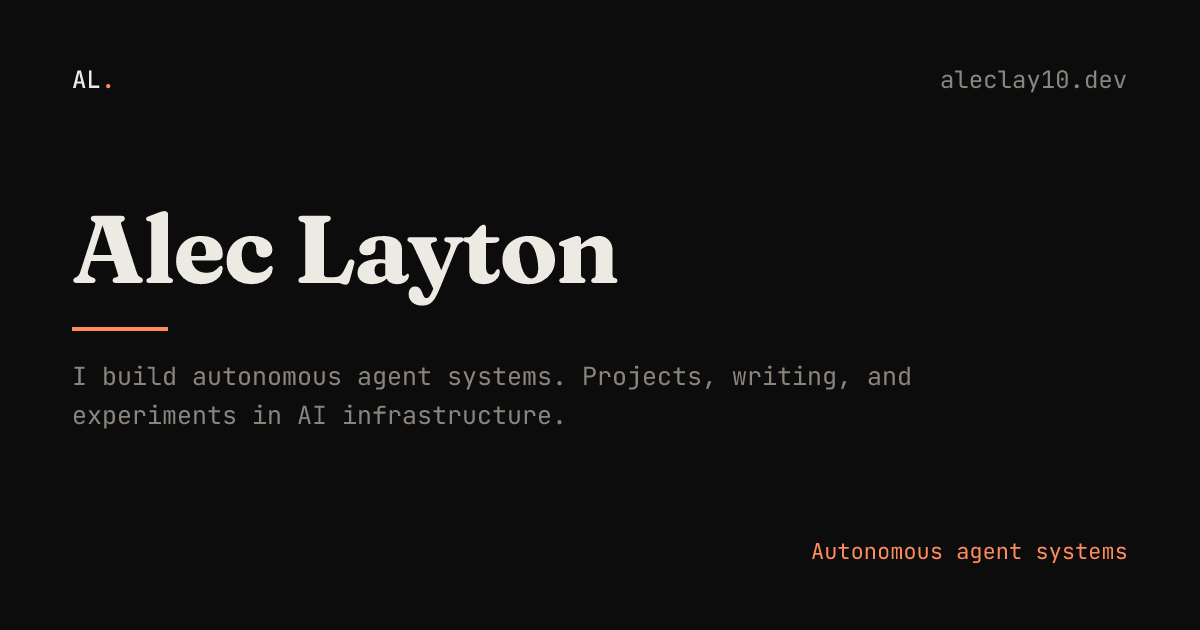
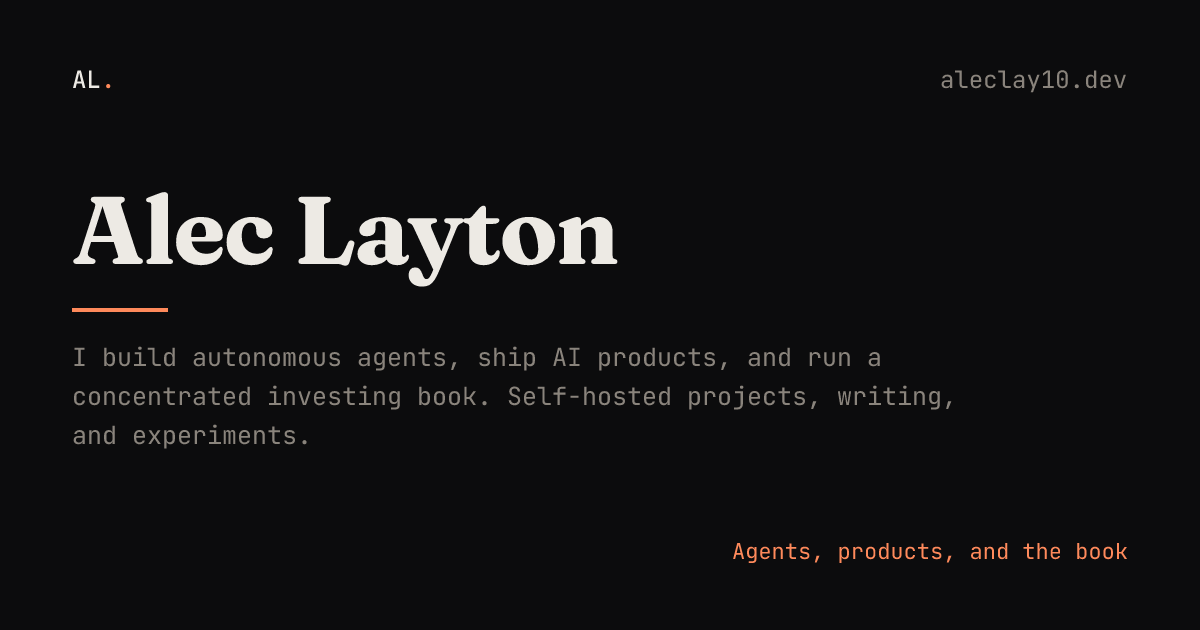
Home hero: broaden headline to agents, products, and the book; add BookChip
The site outgrew 'I build autonomous agent systems'. New hero copy covers
Kowalski, the AI Gaming Assistant in early access, and the /investing book;
page title and description updated to match, home OG card regenerated.

New BookChip under the hero portrait links to /investing: static baseline is
the top two thesis vectors from portfolio.ts, and a fresh /prices.json layers
the book's live day change on top. Same disclosure rules as /investing
(percentages only) and same degradation contract as UptimeChip (no JS, 404,
or stale feed leaves the static allocation line).

The /prices.json fetch, freshness guard, and formatters now live once in
src/lib/prices-client.ts, imported by the investing page script, the
allocation donut, and the chip; baselineAsOf moved to portfolio.ts so every
surface shares one as-of date. Verified under preview:csp in both themes,
at 375px, and with fresh, stale, and missing price fixtures.

Changed region(s): [[0.0617, 0.4825, 0.8017, 0.7238], [0.0617, 0.3016, 0.5242, 0.4825], [0.6167, 0.8444, 0.925, 0.9048]]

diff --git a/src/lib/prices-client.ts b/src/lib/prices-client.ts
@@ -1,0 +1,42 @@
+// Shared client-side contract for /prices.json - the live quote feed a scheduled
+// job writes on the host (same-origin, never a build artifact, 404s in dev).
+// One fetch + freshness guard + formatter set, imported by every consumer
+// (/investing page script, AllocationDonut, BookChip), so the freshness rules
+// can never drift between surfaces.
+
+export type Quote = { price?: number; changePct?: number; weight?: number };
+
+export type Prices = {
+	generated?: string;
+	marketState?: string;
+	portfolio?: { dayChangePct?: number };
+	quotes?: Record<string, Quote>;
+	vectors?: Record<string, number>;
+};
+
+// Prices go stale outside market hours; 6h is generous.
+export const PRICES_MAX_AGE_MS = 6 * 60 * 60 * 1000;
+
+export const nf = (n: number, dp = 2) =>
+	n.toLocaleString(undefined, { minimumFractionDigits: dp, maximumFractionDigits: dp });
+
+// U+2212 minus, not a hyphen: it matches the plus sign's width in tabular figures.
+export const signed = (n: number) => `${n >= 0 ? '+' : '−'}${nf(Math.abs(n))}%`;
+
+/**
+ * Fetch /prices.json and return it only when fresh. Any failure - missing file
+ * (expected in dev, same as /status.json), HTTP error, malformed JSON, stale
+ * timestamp - returns null so callers keep their server-rendered baseline.
+ */
+export async function loadFreshPrices(): Promise<{ data: Prices; generatedAt: Date } | null> {
+	try {
+		const res = await fetch('/prices.json', { cache: 'no-store' });
+		if (!res.ok) return null;
+		const data: Prices = await res.json();
+		const gen = data.generated ? Date.parse(data.generated) : NaN;
+		if (!Number.isFinite(gen) || Date.now() - gen > PRICES_MAX_AGE_MS) return null;
+		return { data, generatedAt: new Date(gen) };
+	} catch {
+		return null;
+	}
+}

diff --git a/src/data/portfolio.ts b/src/data/portfolio.ts
@@ -10,6 +10,14 @@
 // fallback when prices.json is missing or stale. When prices.json is fresh, the
 // page recomputes weights from live prices so the chart does not drift.
 
+/**
+ * Baseline snapshot date for the server-rendered weights below. Every surface
+ * that renders the fallback (the /investing page, the home BookChip) imports
+ * this so they can never disagree about what "as of" means. Keep it in step
+ * with the `weight` values when refreshing the baseline.
+ */
+export const baselineAsOf = 'August 24, 2026';
+
 export type VectorId = 'compute' | 'robotics' | 'space' | 'index' | 'crypto' | 'offthesis';
 
 export type Vector = {
